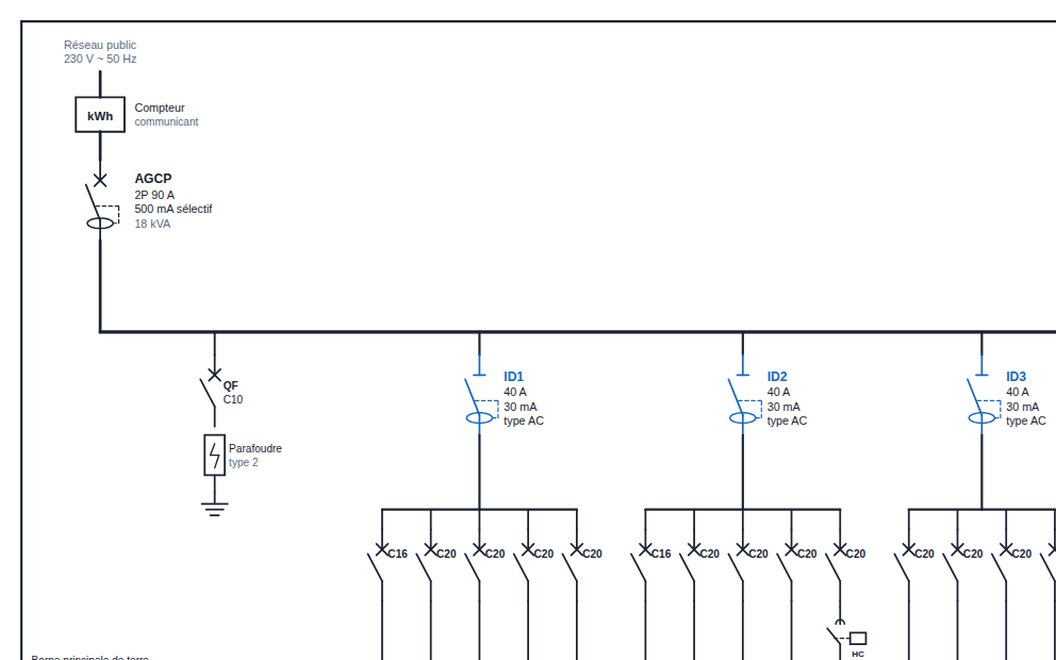
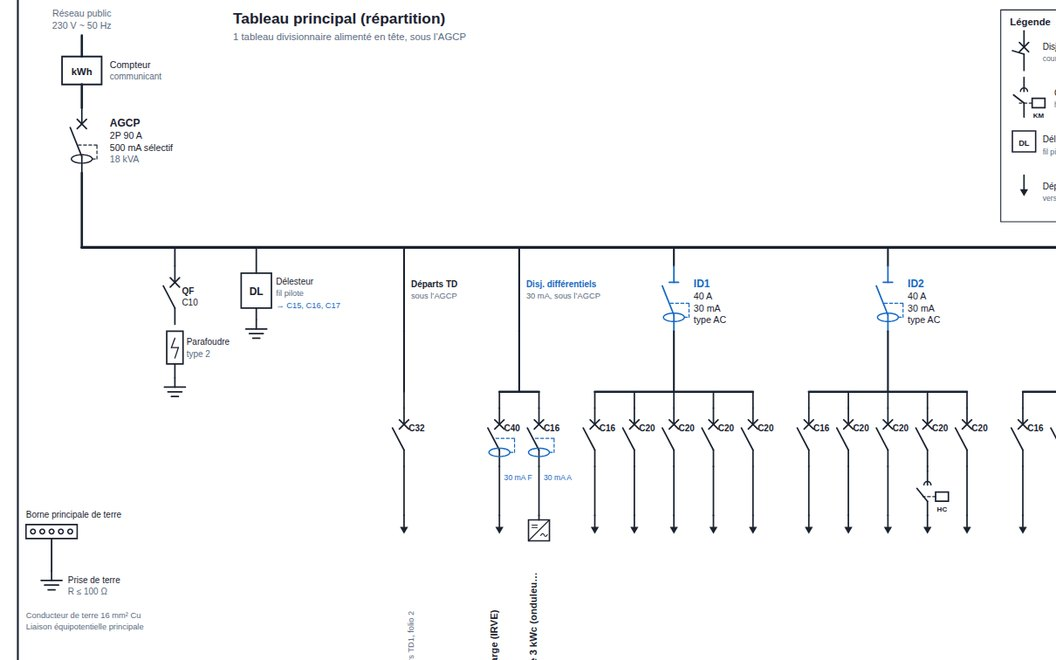
Site : image de l'unifilaire avec délesteur, TD, DDR et onduleur
Claude-Session: https://claude.ai/code/session_012vXqKX4kicWuKVAN5PtXFm

diff --git a/index.html b/index.html
@@ -230,8 +230,8 @@
       <p class="sub-lead">Le tableau se modifie circuit par circuit, en monophasé ou en triphasé, avec ou sans plan — et tous les folios suivent, prêts à imprimer ou à ouvrir dans AutoCAD (DXF).</p>
       <div class="shots shots-docs">
         <figure class="shot">
-          <img src="img/accueil/unifilaire.jpg" alt="Folio unifilaire A3 : réseau, compteur, disjoncteur de branchement 500 mA, parafoudre, interrupteurs différentiels et disjoncteurs" width="1056" height="660" loading="lazy" />
-          <figcaption><b>Schéma unifilaire</b> normalisé (A3, symboles CEI) : AGCP, parafoudre, différentiels, disjoncteurs différentiels, départs, tableaux divisionnaires, nomenclature et cartouche.</figcaption>
+          <img src="img/accueil/unifilaire.jpg" alt="Folio unifilaire A3 : réseau, compteur, disjoncteur de branchement 500 mA, parafoudre, délesteur, départ vers un tableau divisionnaire, disjoncteurs différentiels de la borne de recharge et de l’onduleur photovoltaïque, interrupteurs différentiels" width="1056" height="660" loading="lazy" />
+          <figcaption><b>Schéma unifilaire</b> normalisé (A3, symboles CEI) : AGCP, parafoudre, délesteur, tableaux divisionnaires, disjoncteurs différentiels, onduleur photovoltaïque, nomenclature, légende et cartouche.</figcaption>
         </figure>
         <figure class="shot">
           <img src="img/accueil/cablage.jpg" alt="Câblage du tableau : liaison du disjoncteur de branchement, peignes phase et neutre, départs des circuits et bornier de terre" width="1056" height="660" loading="lazy" />

diff --git a/sw.js b/sw.js
@@ -4,7 +4,7 @@
  * toujours quand on est en ligne, et l'application reste utilisable hors-ligne.
  */
 
-const CACHE = 'electricad-v81';
+const CACHE = 'electricad-v82';
 const ASSETS = [
   'index.html', 'app.html',
   'css/styles.css', 'css/landing.css',
